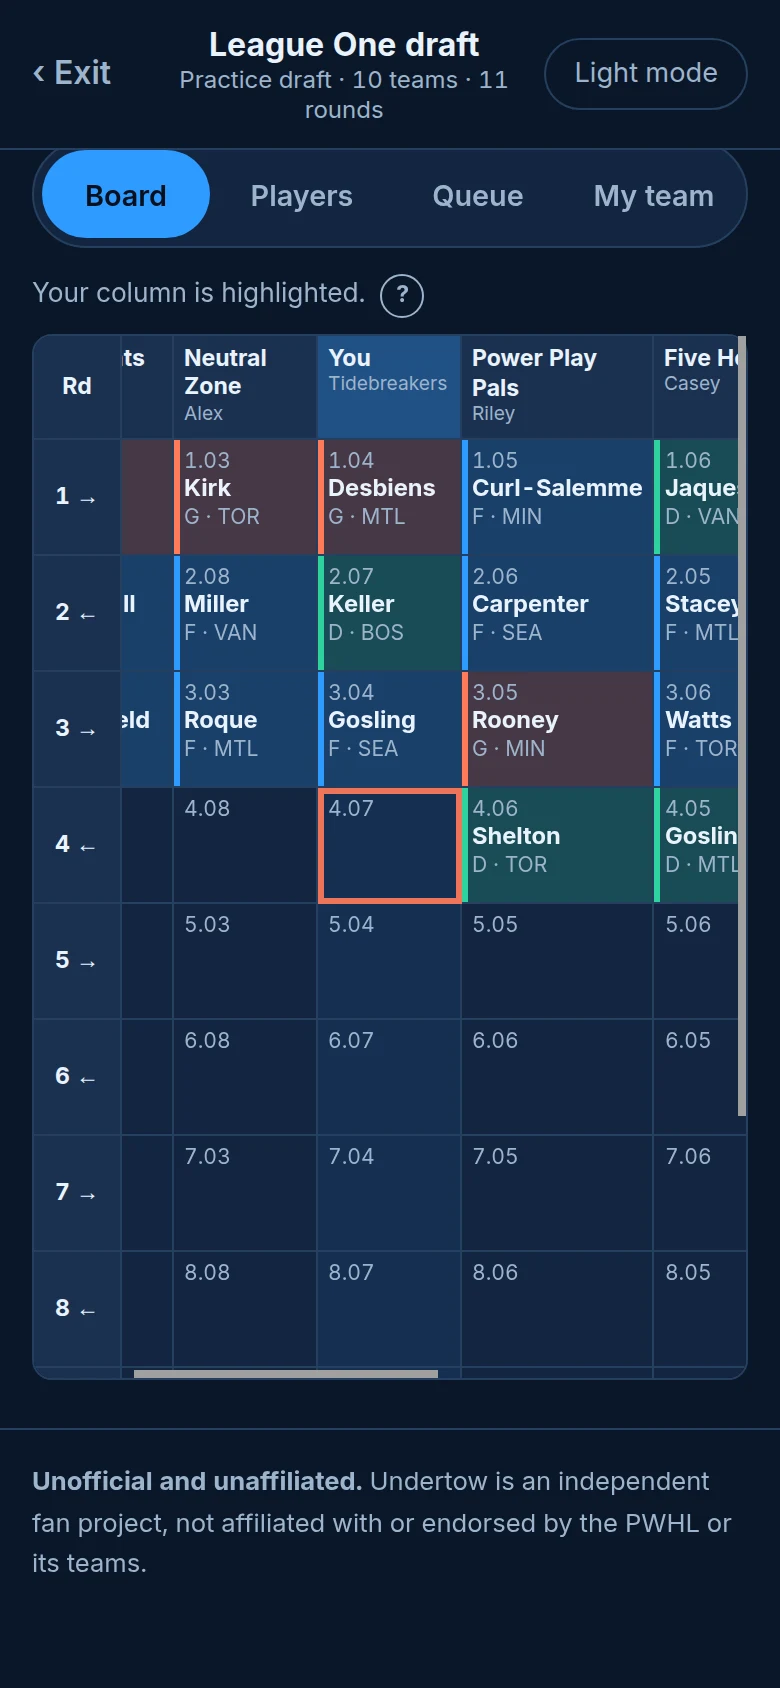
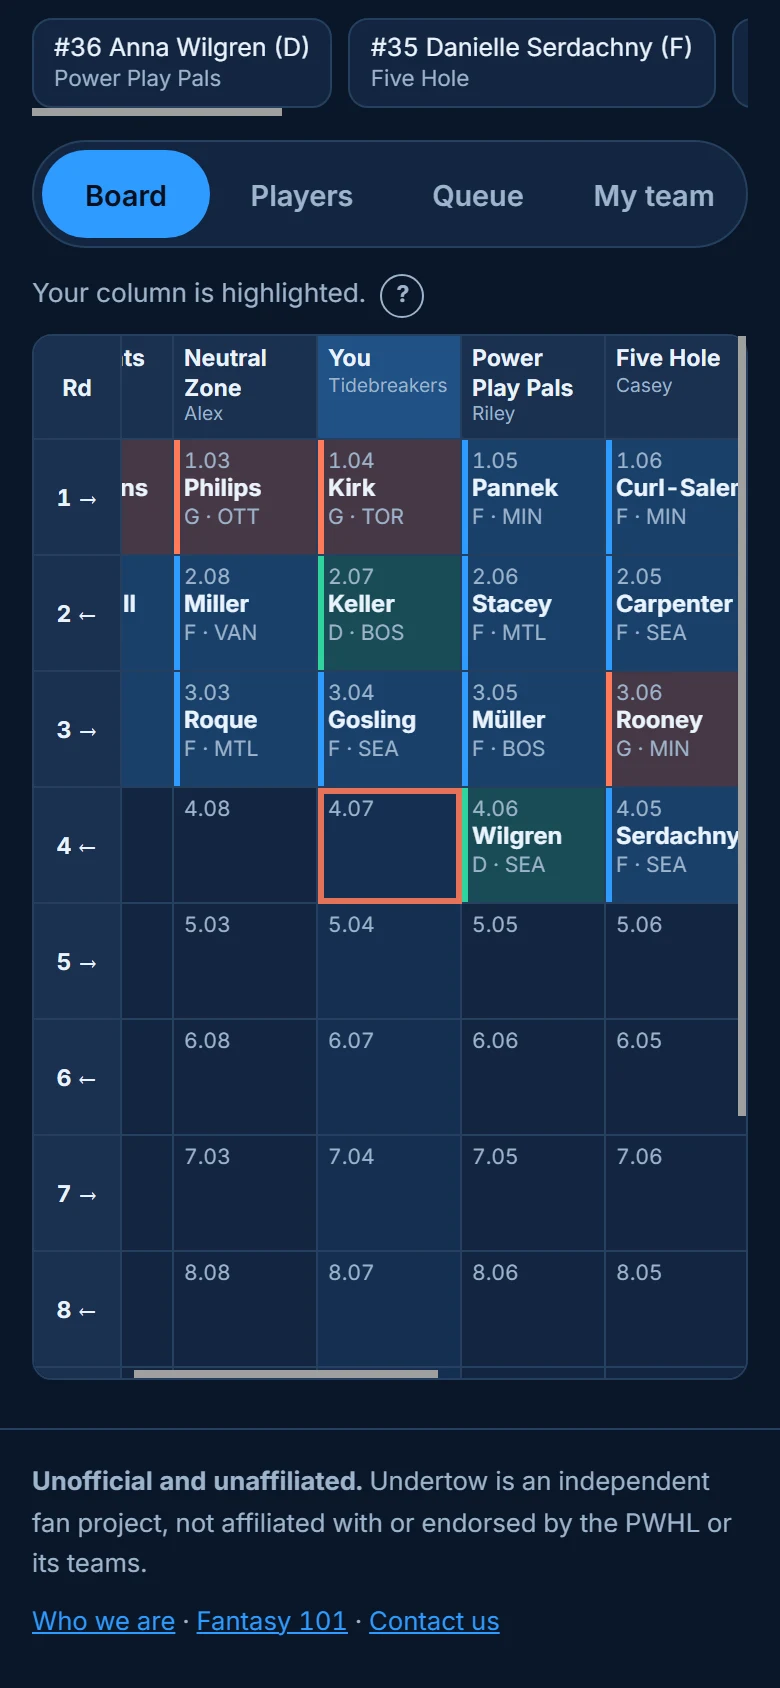
Fix accessibility and alignment defects from design review
- FAQ section: .page's padding shorthand was zeroing .wrap's gutter
  wherever the two classes combined, flushing the section to the
  edge at every width. Changed .page to padding-top/padding-bottom
  only. Also dropped .page from the homepage FAQ wrap entirely (it's
  a landing-page section, not a narrow reading page like Privacy/
  About/Fantasy 101), fixing the mismatched 640px column at 1440px.
- Theme: the boot script only read localStorage, so a device with no
  stored preference always got the hardcoded dark default regardless
  of system theme. Now falls back to prefers-color-scheme.
- Light theme contrast (WCAG 1.4.11 / 1.4.3): darkened --accent
  (#e85a38 -> #c54d30, white button text was 3.5:1, now ~4.7:1) and
  --border (#c9d9ea -> #7489a6, was ~1.4:1 against white, now ~3.6:1)
  in tokens.css. The border fix also covers the inactive carousel
  dots, which share the same token.
- Carousel dots: removed role="tab"/role="tablist" (aria-current was
  never paired with aria-selected, there was no aria-controls or
  tabpanel, and all six were tab stops) in favor of plain buttons
  with aria-current, which the dots already used correctly.
- Carousel dots: hit target was 8x8px with an 8px gap, under the 24px
  minimum (WCAG 2.5.8). Now a 24x24 button with an 8px visual dot
  via ::before, same visual size.
- Carousel arrows: missing font: inherit meant the <>/arrow glyphs
  rendered in the browser's default UI font instead of Inter.
[…]

diff --git a/src/undertow/web/static/site.css b/src/undertow/web/static/site.css
@@ -37,7 +37,7 @@ a { color: var(--primary); }
 .hero .wrap { position: relative; z-index: 1; display: grid; gap: var(--space-6); }
 .eyebrow { display: inline-block; font-size: 0.85rem; font-weight: 600; color: var(--primary); letter-spacing: 0.04em; text-transform: uppercase; margin-bottom: var(--space-3); }
 .lede { font-size: 1.15rem; color: var(--text-muted); max-width: 34rem; }
-.wave { position: absolute; left: 0; right: 0; bottom: 0; height: 70%; z-index: 0; pointer-events: none; transform: translateY(0); animation: wave-rise 0.9s ease-out both; }
+.wave { position: absolute; left: 0; right: 0; bottom: 0; height: 70%; z-index: 0; pointer-events: none; transform: translateY(0); animation: wave-rise 0.9s ease-out both; -webkit-mask-image: linear-gradient(to bottom, black 85%, transparent 100%); mask-image: linear-gradient(to bottom, black 85%, transparent 100%); }
 .wave svg { position: absolute; left: 0; bottom: 0; width: 200%; height: 100%; }
 .wave .w1 { fill: var(--primary); opacity: 0.22; animation: wave-drift 18s linear infinite; }
 .wave .w2 { fill: var(--primary); opacity: 0.13; animation: wave-drift 28s linear infinite reverse; }
@@ -54,6 +54,7 @@ input[type="email"], input[type="text"], select {
   width: 100%; font: inherit; font-size: 1rem; color: var(--text); background: var(--bg);
   border: 1px solid var(--border); border-radius: var(--radius-sm); padding: 12px 14px; min-height: 48px;
 }
+input::placeholder { color: var(--text-muted); opacity: 1; }
 .check { display: flex; gap: var(--space-3); align-items: flex-start; font-weight: 400; font-size: 0.9rem; color: var(--text-muted); }
 .check input { width: 22px; height: 22px; margin-top: 2px; flex: none; accent-color: var(--primary); }
 .err { color: var(--negative); font-size: 0.9rem; margin: 0; }
@@ -81,13 +82,15 @@ section.block { padding: var(--space-6) 0; }
 .shots figcaption strong { font-family: var(--font-heading); font-size: 1rem; }
 .shots figcaption span { color: var(--text-muted); }
 .shots-controls { display: flex; align-items: center; justify-content: center; gap: var(--space-4); margin-top: var(--space-2); }
-.shots-nav { flex: none; width: 40px; height: 40px; border-radius: 50%; border: 1px solid var(--border); background: var(--surface); color: var(--text); font-size: 1.3rem; line-height: 1; cursor: pointer; }
+.shots-nav { flex: none; width: 40px; height: 40px; border-radius: 50%; border: 1px solid var(--border); background: var(--surface); color: var(--text); font: inherit; font-size: 1.3rem; line-height: 1; cursor: pointer; }
 .shots-nav:hover { color: var(--primary); border-color: var(--primary); }
 .shots-nav:disabled { opacity: 0.35; cursor: default; }
 .shots-nav:disabled:hover { color: var(--text); border-color: var(--border); }
-.shots-dots { display: flex; gap: 8px; }
-.dot { width: 8px; height: 8px; padding: 0; border: 0; border-radius: 999px; background: var(--border); cursor: pointer; }
-.dot[aria-current="true"] { background: var(--primary); width: 20px; }
+.shots-dots { display: flex; }
+/* 24x24 tap target (WCAG 2.5.8) around an 8px visual dot */
+.dot { width: 24px; height: 24px; padding: 0; border: 0; background: transparent; cursor: pointer; display: inline-grid; place-items: center; }
+.dot::before { content: ""; width: 8px; height: 8px; border-radius: 999px; background: var(--border); }
+.dot[aria-current="true"]::before { background: var(--primary); width: 20px; }
 @media (min-width: 640px) {
   .shots-frame { max-width: 340px; }
 }
@@ -101,7 +104,7 @@ footer { border-top: 1px solid var(--border); padding: var(--space-5) 0 var(--sp
 footer p { margin-bottom: var(--space-2); }
 
 /* Simple text pages */
-.page { padding: var(--space-5) 0 var(--space-6); max-width: 40rem; }
+.page { padding-top: var(--space-5); padding-bottom: var(--space-6); max-width: 40rem; }
 .page ul { padding-left: 1.2em; }
 .page table { width: 100%; border-collapse: collapse; margin: var(--space-3) 0 var(--space-4); }
 .page th, .page td { padding: 8px 10px; text-align: left; font-size: 0.92rem; border-bottom: 1px solid var(--border); }

diff --git a/src/undertow/web/templates/index.html b/src/undertow/web/templates/index.html
@@ -117,14 +117,14 @@
   </div>
   <div class="shots-controls">
     <button class="shots-nav prev" type="button" aria-label="Previous screenshot">‹</button>
-    <div class="shots-dots" id="shots-dots" role="tablist" aria-label="Choose a screenshot"></div>
+    <div class="shots-dots" id="shots-dots" aria-label="Choose a screenshot"></div>
     <button class="shots-nav next" type="button" aria-label="Next screenshot">›</button>
   </div>
 </section>
 <script src="/static/shots.js?v={{ v }}" defer></script>
 
 <section class="block" id="faq">
-  <div class="wrap page">
+  <div class="wrap">
     <h2>Questions</h2>
     <details><summary>I've never played fantasy. Is this for me?</summary><p>Yes, that's who we built it for. We explain each step as it comes up, and you don't need to know hockey stats to start. Check out <a href="/fantasy-101">Fantasy 101</a> for the full rundown.</p></details>
     <details><summary>Is it free?</summary><p>Yes. It's free to join and play.</p></details>

diff --git a/src/undertow/web/templates/base.html b/src/undertow/web/templates/base.html
@@ -10,7 +10,13 @@
   <meta property="og:description" content="Friendly PWHL fantasy leagues for the 2026-27 season. New to fantasy? You're who we built this for.">
   <meta property="og:type" content="website">
   <script>
-    try { var t = localStorage.getItem("theme"); if (t === "light" || t === "dark") document.documentElement.dataset.theme = t; } catch (e) {}
+    try {
+      var t = localStorage.getItem("theme");
+      if (t !== "light" && t !== "dark") {
+        t = (window.matchMedia && window.matchMedia("(prefers-color-scheme: light)").matches) ? "light" : "dark";
+      }
+      document.documentElement.dataset.theme = t;
+    } catch (e) {}
   </script>
   <link rel="icon" type="image/svg+xml" href="/static/favicon.svg?v={{ v }}">
   <link rel="preconnect" href="https://fonts.googleapis.com">

diff --git a/src/undertow/web/static/tokens.css b/src/undertow/web/static/tokens.css
@@ -33,12 +33,14 @@
   --bg: #f5f9fd;
   --surface: #ffffff;
   --surface-2: #eaf2fb;
-  --border: #c9d9ea;
+  /* Darkened from #c9d9ea (~1.4:1 on white) to meet 3:1 for interactive-component boundaries (WCAG 1.4.11). */
+  --border: #7489a6;
   --text: #0a1628;
   --text-muted: #4a6078;
   --primary: #1769d1;
   --on-primary: #ffffff;
-  --accent: #e85a38;
+  /* Darkened from #e85a38: white button text on the un-darkened value was 3.5:1, below the 4.5:1 normal-text minimum. */
+  --accent: #c54d30;
   --positive: #0f8f6b;
   --negative: #c93a4b;
   --focus: #b45309;

diff --git a/src/undertow/web/static/shots.js b/src/undertow/web/static/shots.js
@@ -17,7 +17,6 @@
     var b = document.createElement("button");
     b.type = "button";
     b.className = "dot";
-    b.setAttribute("role", "tab");
     b.setAttribute("aria-label", "Screenshot " + (i + 1) + " of " + slides.length);
     b.addEventListener("click", function () { go(i); });
     dotsWrap.appendChild(b);
